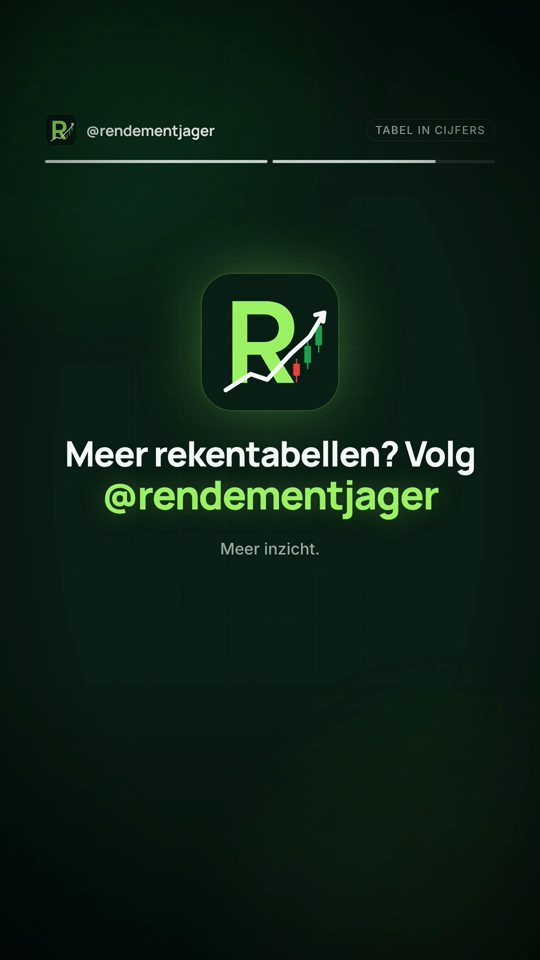
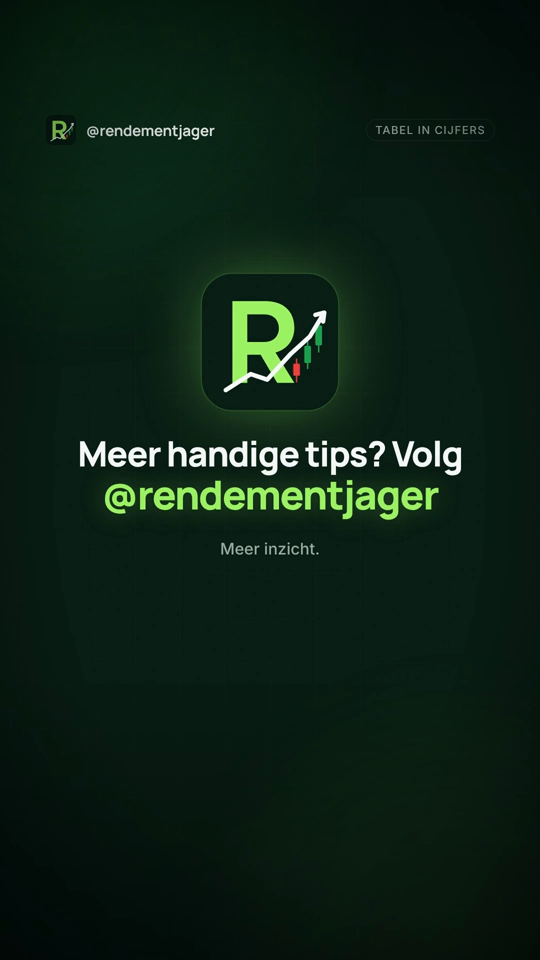
Reels: progress bar off by default, tips-style CTAs; re-render table and EUR 250 Reels
Claude-Session: https://claude.ai/code/session_01WKgZv7YV4Y8HYG9WZq2oQV

Changed region(s): [[0.1185, 0.4375, 0.8889, 0.5]]

diff --git a/packages/video-engine/src/components/structure.tsx b/packages/video-engine/src/components/structure.tsx
@@ -113,7 +113,9 @@ export const ReelShell: React.FC<{
   background?: BackgroundProps | null;
   /** Scene ids with chart cards: the footage is blurred and darkened a bit behind them. */
   blurSceneIds?: string[];
-}> = ({ scenes, renderScene, captions, footnote, voiceSrc, headerLabel, hideFootnoteIn = [], background, blurSceneIds = [] }) => {
+  /** Segmented progress bar at the top. OFF by default: viewers scroll away when they see it run out. */
+  showProgress?: boolean;
+}> = ({ scenes, renderScene, captions, footnote, voiceSrc, headerLabel, hideFootnoteIn = [], background, blurSceneIds = [], showProgress = false }) => {
   const frame = useCurrentFrame();
   const { fps } = useVideoConfig();
   const ms = (frame / fps) * 1000;
@@ -132,7 +134,7 @@ export const ReelShell: React.FC<{
         );
       })}
       <BrandHeader label={headerLabel} />
-      <ProgressIndicator scenes={scenes} />
+      {showProgress ? <ProgressIndicator scenes={scenes} /> : null}
       <CaptionOverlay pages={captions} />
       {current && hideFootnoteIn.includes(current) ? null : <SourceFootnote text={footnote.text} source={footnote.source} />}
       <Grade />

diff --git a/packages/series-engine/src/build-table.ts b/packages/series-engine/src/build-table.ts
@@ -13,7 +13,7 @@ export const TABLE_FOOTER = 'Rekenvoorbeeld, geen garantie of advies.';
 /** Same disclaimer as the video footer (video-engine TABLE_DISCLAIMER_NL). */
 export const TABLE_DISCLAIMER = 'Rendementen uit het verleden bieden geen garantie voor de toekomst. Geen beleggingsadvies.';
 const SERIES = 'Tabel in cijfers';
-const CTAS = ['Volg @rendementjager voor meer inzicht.', 'Meer rekentabellen? Volg @rendementjager.', 'Volg @rendementjager voor de volgende berekening.'];
+const CTAS = ['Meer tips? Volg @rendementjager.', 'Meer handige tips? Volg @rendementjager.', 'Volg @rendementjager voor meer tips.'];
 const HASHTAGS = ['#beleggen', '#renteoprente', '#financieleeducatie', '#vermogensopbouw', '#geldzaken'];
 
 const range = (a: number[]) => `${eur(Math.min(...a))} tot ${eur(Math.max(...a))}`;

diff --git a/packages/video-engine/src/templates/TemplateAB.tsx b/packages/video-engine/src/templates/TemplateAB.tsx
@@ -47,6 +47,7 @@ export const TemplateA: React.FC<TemplateAProps> = (props) => {
       headerLabel="Rendement in 30 sec"
       hideFootnoteIn={['cta']}
       background={props.background}
+      showProgress={props.showProgress}
       blurSceneIds={['chart']}
       renderScene={(id) => {
         if (id === 'hook')
@@ -90,6 +91,7 @@ export const TemplateB: React.FC<TemplateBProps> = (props) => {
       headerLabel="De markt uitgelegd"
       hideFootnoteIn={['cta']}
       background={props.background}
+      showProgress={props.showProgress}
       blurSceneIds={['chart']}
       renderScene={(id) => {
         if (id === 'hook')

diff --git a/packages/series-engine/src/build.ts b/packages/series-engine/src/build.ts
@@ -30,9 +30,9 @@ const HASHTAGS = {
   table: { base: ['#beleggen', '#renteoprente', '#financieleeducatie'], pool: ['#vermogensopbouw', '#geldzaken'] },
 } as const;
 const CTAS = [
-  'Volg @rendementjager voor meer inzicht.',
-  'Meer rekenvoorbeelden? Volg @rendementjager.',
-  'Volg @rendementjager voor de volgende berekening.',
+  'Meer tips? Volg @rendementjager.',
+  'Meer handige tips? Volg @rendementjager.',
+  'Volg @rendementjager voor meer tips.',
 ];
 
 const refOf = (fn: string, input: unknown, path: string) => `@rj/finance-engine:${fn}(${JSON.stringify(input)})#${path}`;

diff --git a/packages/video-engine/src/schemas.ts b/packages/video-engine/src/schemas.ts
@@ -58,6 +58,8 @@ const shellSchema = z.object({
   cta: z.object({ text: z.string(), tagline: z.string() }),
   /** null/absent = animated dark-green fallback background. */
   background: backgroundSchema.nullable().optional(),
+  /** Segmented progress bar: off by default in every template. */
+  showProgress: z.boolean().default(false),
   /** Show the dim "Illustratief" hint etc. Always on for illustrative visuals. */
 });
 

diff --git a/packages/video-engine/src/templates/TemplateD.tsx b/packages/video-engine/src/templates/TemplateD.tsx
@@ -138,6 +138,7 @@ export const TemplateD: React.FC<TemplateDProps> = (props) => {
       headerLabel={props.kicker}
       hideFootnoteIn={['cta']}
       background={props.background}
+      showProgress={props.showProgress}
       blurSceneIds={['table']}
       renderScene={(id) => {
         if (id === 'table') return <TableScene props={props} />;

diff --git a/packages/video-engine/src/templates/TemplateC.tsx b/packages/video-engine/src/templates/TemplateC.tsx
@@ -163,6 +163,7 @@ export const TemplateC: React.FC<TemplateCProps> = (props) => (
     headerLabel="Geld in cijfers"
     hideFootnoteIn={['cta']}
     background={props.background}
+      showProgress={props.showProgress}
     blurSceneIds={['growth', 'result']}
     renderScene={(id) => {
       switch (id) {

diff --git a/content/scripts/2026-10-23-250-per-maand-30-jaar/caption.md b/content/scripts/2026-10-23-250-per-maand-30-jaar/caption.md
@@ -8,6 +8,6 @@ Een rekenvoorbeeld:
 
 Belangrijk: dit is een hypothetisch voorbeeld, geen garantie en geen advies. Het eindbedrag is nominaal: kosten, belasting (box 3) en inflatie zitten er niet in. Echte rendementen schommelen en kunnen negatief zijn. Let op! Beleggen brengt risico's met zich mee. Je kunt (een deel van) je inleg verliezen.
 
-Volg @rendementjager voor meer inzicht.
+Meer tips? Volg @rendementjager.
 
 #beleggen #renteoprente #financieleeducatie #geldzaken #vermogenopbouwen

diff --git a/content/scripts/2026-10-30-tabel-r8-m50-500-contrast/caption.md b/content/scripts/2026-10-30-tabel-r8-m50-500-contrast/caption.md
@@ -11,6 +11,6 @@ Rendementen uit het verleden bieden geen garantie voor de toekomst. Geen beleggi
 Dit is een hypothetisch rekenvoorbeeld, geen garantie en geen advies.
 Let op! Beleggen brengt risico's met zich mee. Je kunt (een deel van) je inleg verliezen.
 
-Meer rekentabellen? Volg @rendementjager.
+Meer handige tips? Volg @rendementjager.
 
 #beleggen #renteoprente #financieleeducatie #vermogensopbouw #geldzaken

diff --git a/content/scripts/2026-10-30-tabel-r8-m50-500-contrast/script.md b/content/scripts/2026-10-30-tabel-r8-m50-500-contrast/script.md
@@ -10,4 +10,4 @@
 | Scène | Voice-over |
 | --- | --- |
 | table | Inleg naast elkaar: €50 tot €500 per maand, bij 8%. Bij 8% per jaar, vóór kosten en belasting. Rekenvoorbeeld, geen garantie of advies. |
-| cta | Meer rekentabellen? Volg @rendementjager. |
+| cta | Meer handige tips? Volg @rendementjager. |
